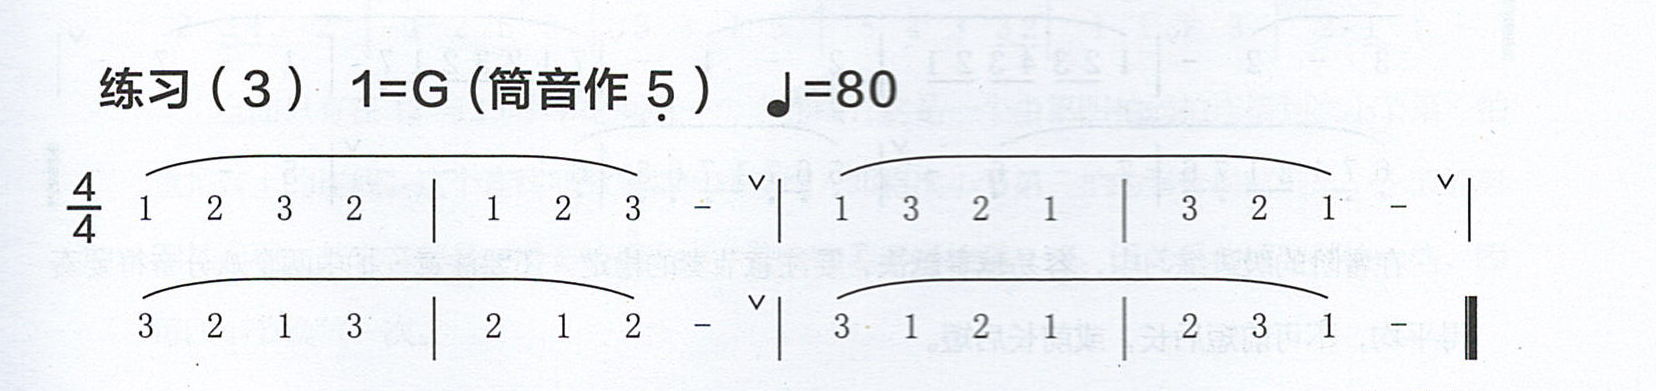
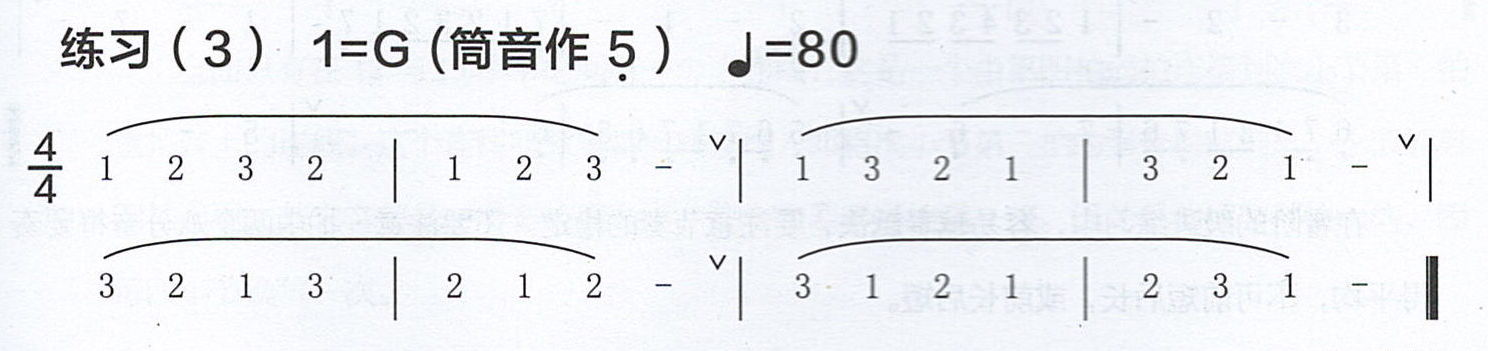
Switch zhifan and add practice notation.

diff --git a/洞箫集谱.tex b/洞箫集谱.tex
@@ -1,0 +1,90 @@
+\documentclass[cn,pad,chinese,chinesefont=nofont,math=newtx]{elegantbook}
+\usepackage{latexgit}
+\usepackage{hyperref}
+\hypersetup{
+	pdftitle={洞箫演奏 - 筒音5},
+    pdfauthor={雪散舞}
+}
+%\usepackage{showframe}
+\setCJKmainfont{Source Han Serif} 
+\setCJKsansfont{Source Han Sans} 
+\setCJKmonofont{Source Han Mono} 
+\setCJKfamilyfont{zhsong}{Source Han Serif}
+\setCJKfamilyfont{zhhei}{Source Han Sans} 
+\setCJKfamilyfont{zhkai}{Source Han Mono} 
+\setCJKfamilyfont{zhfs}{Source Han Mono} 
+\newcommand*{\songti}{\CJKfamily{zhsong}} 
+\newcommand*{\heiti}{\CJKfamily{zhhei}} 
+\newcommand*{\kaishu}{\CJKfamily{zhkai}} 
+\newcommand*{\fangsong}{\CJKfamily{zhfs}}
+
+\title{洞箫集谱}
+\author{雪散舞}
+\date{\zhtoday}
+\cover{dongxiao/cover.jpeg}
+\logo{monk.png}
+\extrainfo{清籁远喑喑，秦楼夜思深。碧空人已去，沧海凤难寻。\\杳妙和云绝，依微向水沉。还将九成意，高阁伫芳音。}
+\version{\gitcommithash}
+
+\begin{document}
+\maketitle
+\frontmatter
+\tableofcontents
+\mainmatter
+
+\chapter{箫的来历}
+\paragraph*{箫，形声。字从竹从肃，肃亦声。“肃”本义为“千针万孔”，转义为“风声尖锐地漫天呼啸”。“竹”与“肃”联合起来表示“一种模拟风声漫天尖锐呼啸的竹制吹奏乐器”。本义：一种模拟风吹声的竹乐器。}
+\paragraph*{箫源于远古时期的骨哨，历史上亦称为笛，唐以后方专指竖吹之笛。“横吹笛子竖吹箫”，即笛箫之间最基本的差别。箫历史悠久，音色圆润轻柔，幽静典雅，适于独奏和重奏。箫笛同源于远古时期的骨哨，新石器时代开始以竹制作。在秦汉至唐，箫是指编管的排箫。} 
+\paragraph*{早在《尚书·益稷》中记载有“箫韶九成，凤凰来仪。”当因韶乐伴奏乐器以箫（当时为排箫）为主而有此称。箫在汉代时称为“篴”、“竖篴”。西晋乐工列和、中书监荀勖所改革的笛为6 孔（前5、后1），其形制与今天的箫已非常相似了。东晋的桓伊，擅长音乐，他有一支蔡邕的柯亭笛（箫），是江南数第一的吹箫名手，地位和声望都已很高。他曾为素不相识的王徽之吹奏过三段乐曲，在历史上被传为佳话。}
+\paragraph*{魏晋南北朝时，箫已用于独奏、合奏，并在伴奏相和歌的乐队中使用。清代，箫的形制完全一样。清《律吕正义后编》记载：“明时乃直曰箫，不复有竖篴。今箫长一尺八寸弱，从上口吹，有后出孔；笛横吹，无后出孔。”}
+
+\chapter{八孔箫指法图}
+\includegraphics[width=0.93\textwidth]{dongxiao/20200419-8孔箫指法图}
+\chapter{练习谱 - 筒音作5}
+\begin{center}
+	\includegraphics[width=\textwidth]{dongxiao/Scan 1-1.jpeg}
+	\includegraphics[width=\textwidth]{dongxiao/Scan 1-2.jpeg}
+	\includegraphics[width=\textwidth]{dongxiao/20200419-练习3.1.png}
+	\includegraphics[width=\textwidth]{dongxiao/Scan 2.jpeg}
+	\includegraphics[width=\textwidth]{dongxiao/Scan 3.jpeg}
+\end{center}
+\chapter{练习谱 - 筒音作2}
+	\includegraphics[width=0.8\textwidth]{dongxiao/Scan 6.jpeg}～
+
+\chapter{练习歌曲-首选}
+\section{世上只有妈妈好}
+	\includegraphics[width=\textwidth]{dongxiao/IMG_0854-世上只有妈妈好.png}
+\section{送别}
+    \includegraphics[width=\textwidth]{dongxiao/IMG_0855-送别.png}  
+\section{儿女情}          
+	\includegraphics[width=\textwidth]{dongxiao/西游记-儿女情}  
+\section{樱花}
+	\includegraphics[width=\textwidth]{dongxiao/日本-樱花.jpg}  
+\section{时间都去哪儿了}
+    \includegraphics[width=\textwidth]{dongxiao/20200411-时间都去哪儿了.jpg} 
+\section{静夜思}
+    \includegraphics[width=\textwidth]{dongxiao/20200411-静夜思.jpg}
+\section{定风波-苏轼词}
+    \includegraphics[width=\textwidth]{dongxiao/20200411-定风波.jpg}
+\chapter{练习歌曲-曲牌}
+\section{关山月}
+    \includegraphics[width=\textwidth]{dongxiao/20200411-清平乐-关山月.jpg}
+\section{明月几时有-苏轼词}
+    \includegraphics[width=\textwidth]{dongxiao/20200411-明月几时有.jpg}
+\section{清平乐-春归何处}
+    \includegraphics[width=\textwidth]{dongxiao/20200411-清平乐-春归何处.jpg}
+\section{清平乐-晏殊词}
+    \includegraphics[width=\textwidth]{dongxiao/20200411-清平乐-晏殊.jpg}
+\section{蝶恋花-春景}
+    \includegraphics[width=\textwidth]{dongxiao/20200411-蝶恋花-春景.jpg}
+\section{城市很静}
+    \includegraphics[width=\textwidth]{dongxiao/20200402-城市很静} 
+\section{风留念}
+    \includegraphics[width=\textwidth]{dongxiao/20200323风留念.jpg}
+\section{玉楼春}
+    \includegraphics[width=\textwidth]{dongxiao/20200323玉楼春.jpg}
+\section{墨香-长安曲}
+    \includegraphics[width=0.9\textwidth]{dongxiao/20200323墨香-长安曲.jpg} 
+\section{思美人兮}
+    \includegraphics[width=\textwidth]{dongxiao/20200402-思美人.jpg}
+\end{document}
